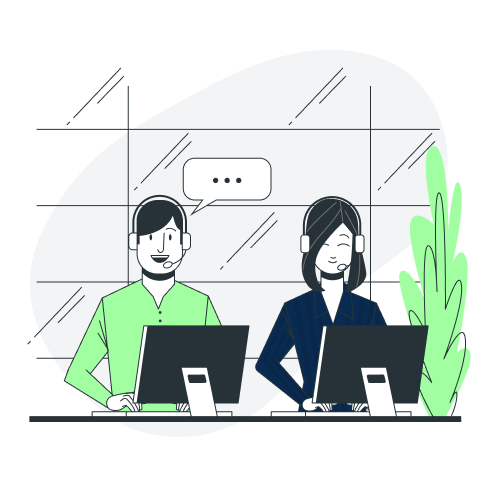
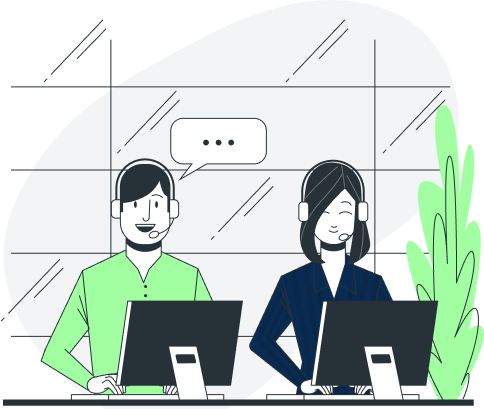
contact desktop

diff --git a/contact.html b/contact.html
@@ -336,7 +336,7 @@
         </div>
       </section>
 
-      <div id="carouselExampleIndicators" class="carousel slide mb-md-7 mb-7">
+      <div id="carouselExampleIndicators" class="carousel slide">
         <div class="container">
           <div class="carousel-indicators">
             <button
@@ -431,8 +431,8 @@
             </div>
             <div class="carousel-item live-call">
               <div class="row">
-                <div class="col-md-6 col-12">
-                  <h2 class="mb-3">Live call</h2>
+                <div class="col-md-5 col-12">
+                  <h2 class="mb-4">Live call</h2>
                   <p class="mb-3">
                     Submit your name and surname, phone number and we will get
                     back to you as soon as possible.
@@ -442,10 +442,11 @@
                     <a href="#">knowledge base.</a>
                   </p>
                   <p class="mb-3">We look forward to hearing from you.</p>
-                  <span>
+                  <p class="light-par">
                     Please note that our work time is from 09:00 to 17:30
-                    Central European Standard Time (GMT+1).
-                  </span>
+                    Central European Standard Time (GMT+1)
+                  </p>
+
                   <form class="mt-3">
                     <div class="live-call-row d-flex mb-3">
                       <input
@@ -481,12 +482,8 @@
                     </button>
                   </form>
                 </div>
-                <div class="col-md-6 col-12">
-                  <img
-                    src="assets/contact-live-call.png"
-                    width="418px"
-                    height="388px"
-                  />
+                <div class="col-md-6 col-12 px-md-0">
+                  <img src="assets/contact-live-call.png" />
                 </div>
               </div>
             </div>

diff --git a/dist/contact.css b/dist/contact.css
@@ -12100,7 +12100,8 @@ p {
 }
 
 .carousel-indicators {
-  top: 100%;
+  margin-bottom: 0;
+  top: 500px;
 }
 
 .carousel-indicators .active {
@@ -12112,6 +12113,10 @@ p {
   height: 12px;
   width: 12px;
   border-radius: 50%;
+  margin-right: 8px;
+  margin-left: 8px;
+  border-top: 0;
+  border-bottom: 0;
 }
 
 .contact-hero {
@@ -12132,15 +12137,22 @@ p {
   }
 }
 
+@media (min-width: 768px) {
+  .carousel {
+    margin-bottom: 98px;
+  }
+}
 .carousel .carousel-inner {
   margin-top: -90px;
   z-index: 10;
   background-color: #fff;
   border-radius: 24px;
+  height: 464px;
 }
-.carousel .carousel-inner .carousel-item span {
+.carousel .carousel-inner .carousel-item .light-par {
   color: rgba(10, 43, 81, 0.5);
   font-size: 13px;
+  line-height: 15px;
 }
 .carousel .carousel-inner .carousel-item .form-control {
   height: 48px;
@@ -12158,6 +12170,9 @@ p {
 .carousel .carousel-inner .carousel-item textarea {
   height: 90px !important;
 }
+.carousel .carousel-inner .carousel-item .btn-primary {
+  padding: 12px 0;
+}
 .carousel .carousel-inner .carousel-item .form-check-input {
   height: 24px;
   width: 24px;
@@ -12174,7 +12189,11 @@ p {
   box-shadow: none;
 }
 .carousel .carousel-inner .contact-form {
-  padding: 56px 56px 32px 56px;
+  padding: 56px;
+  padding-bottom: 0;
+}
+.carousel .carousel-inner .contact-form h2, .carousel .carousel-inner .contact-form .h2 {
+  line-height: 31px;
 }
 @media (min-width: 768px) {
   .carousel .carousel-inner .contact-form .contact-form-row input:last-child {
@@ -12190,7 +12209,7 @@ p {
   }
 }
 .carousel .carousel-inner .live-call {
-  padding: 56px 100px;
+  padding: 56px 100px 0;
 }
 @media (min-width: 768px) {
   .carousel .carousel-inner .live-call .live-call-row input:last-child {

diff --git a/sass/contact.scss b/sass/contact.scss
@@ -19,15 +19,20 @@
 }
 
 .carousel {
+  @include media-breakpoint-up(md) {
+    margin-bottom: 98px;
+  }
   .carousel-inner {
     margin-top: -90px;
     z-index: 10;
     background-color: #fff;
     border-radius: 24px;
+    height: 464px;
     .carousel-item {
-      span {
+      .light-par {
         color: rgba(10, 43, 81, 0.5);
         font-size: 13px;
+        line-height: 15px;
       }
       .form-control {
         height: 48px;
@@ -44,6 +49,9 @@
       }
       textarea {
         height: 90px !important;
+      }
+      .btn-primary {
+        padding: 12px 0;
       }
 
       .form-check-input {
@@ -62,7 +70,11 @@
     }
 
     .contact-form {
-      padding: 56px 56px 32px 56px;
+      padding: 56px;
+      padding-bottom: 0;
+      h2 {
+        line-height: 31px;
+      }
       .contact-form-row {
         @include media-breakpoint-up(md) {
           input:last-child {
@@ -80,7 +92,7 @@
     }
 
     .live-call {
-      padding: 56px 100px;
+      padding: 56px 100px 0;
       .live-call-row {
         @include media-breakpoint-up(md) {
           input:last-child {

diff --git a/sass/styles.scss b/sass/styles.scss
@@ -278,7 +278,8 @@ p {
 }
 
 .carousel-indicators {
-  top: 100%;
+  margin-bottom: 0;
+  top: 500px;
 }
 .carousel-indicators .active {
   background-color: $primary !important;
@@ -288,4 +289,8 @@ p {
   height: 12px;
   width: 12px;
   border-radius: 50%;
+  margin-right: 8px;
+  margin-left: 8px;
+  border-top: 0;
+  border-bottom: 0;
 }

diff --git a/dist/career.css b/dist/career.css
@@ -12100,7 +12100,8 @@ p {
 }
 
 .carousel-indicators {
-  top: 100%;
+  margin-bottom: 0;
+  top: 500px;
 }
 
 .carousel-indicators .active {
@@ -12112,6 +12113,10 @@ p {
   height: 12px;
   width: 12px;
   border-radius: 50%;
+  margin-right: 8px;
+  margin-left: 8px;
+  border-top: 0;
+  border-bottom: 0;
 }
 
 .content .career-hero {

diff --git a/dist/resources.css b/dist/resources.css
@@ -12100,7 +12100,8 @@ p {
 }
 
 .carousel-indicators {
-  top: 100%;
+  margin-bottom: 0;
+  top: 500px;
 }
 
 .carousel-indicators .active {
@@ -12112,6 +12113,10 @@ p {
   height: 12px;
   width: 12px;
   border-radius: 50%;
+  margin-right: 8px;
+  margin-left: 8px;
+  border-top: 0;
+  border-bottom: 0;
 }
 
 .resources-hero {

diff --git a/dist/services.css b/dist/services.css
@@ -12100,7 +12100,8 @@ p {
 }
 
 .carousel-indicators {
-  top: 100%;
+  margin-bottom: 0;
+  top: 500px;
 }
 
 .carousel-indicators .active {
@@ -12112,6 +12113,10 @@ p {
   height: 12px;
   width: 12px;
   border-radius: 50%;
+  margin-right: 8px;
+  margin-left: 8px;
+  border-top: 0;
+  border-bottom: 0;
 }
 
 .services-hero {

diff --git a/dist/about.css b/dist/about.css
@@ -12100,7 +12100,8 @@ p {
 }
 
 .carousel-indicators {
-  top: 100%;
+  margin-bottom: 0;
+  top: 500px;
 }
 
 .carousel-indicators .active {
@@ -12112,6 +12113,10 @@ p {
   height: 12px;
   width: 12px;
   border-radius: 50%;
+  margin-right: 8px;
+  margin-left: 8px;
+  border-top: 0;
+  border-bottom: 0;
 }
 
 .about-hero {

diff --git a/dist/styles.css b/dist/styles.css
@@ -12100,7 +12100,8 @@ p {
 }
 
 .carousel-indicators {
-  top: 100%;
+  margin-bottom: 0;
+  top: 500px;
 }
 
 .carousel-indicators .active {
@@ -12112,4 +12113,8 @@ p {
   height: 12px;
   width: 12px;
   border-radius: 50%;
+  margin-right: 8px;
+  margin-left: 8px;
+  border-top: 0;
+  border-bottom: 0;
 }
